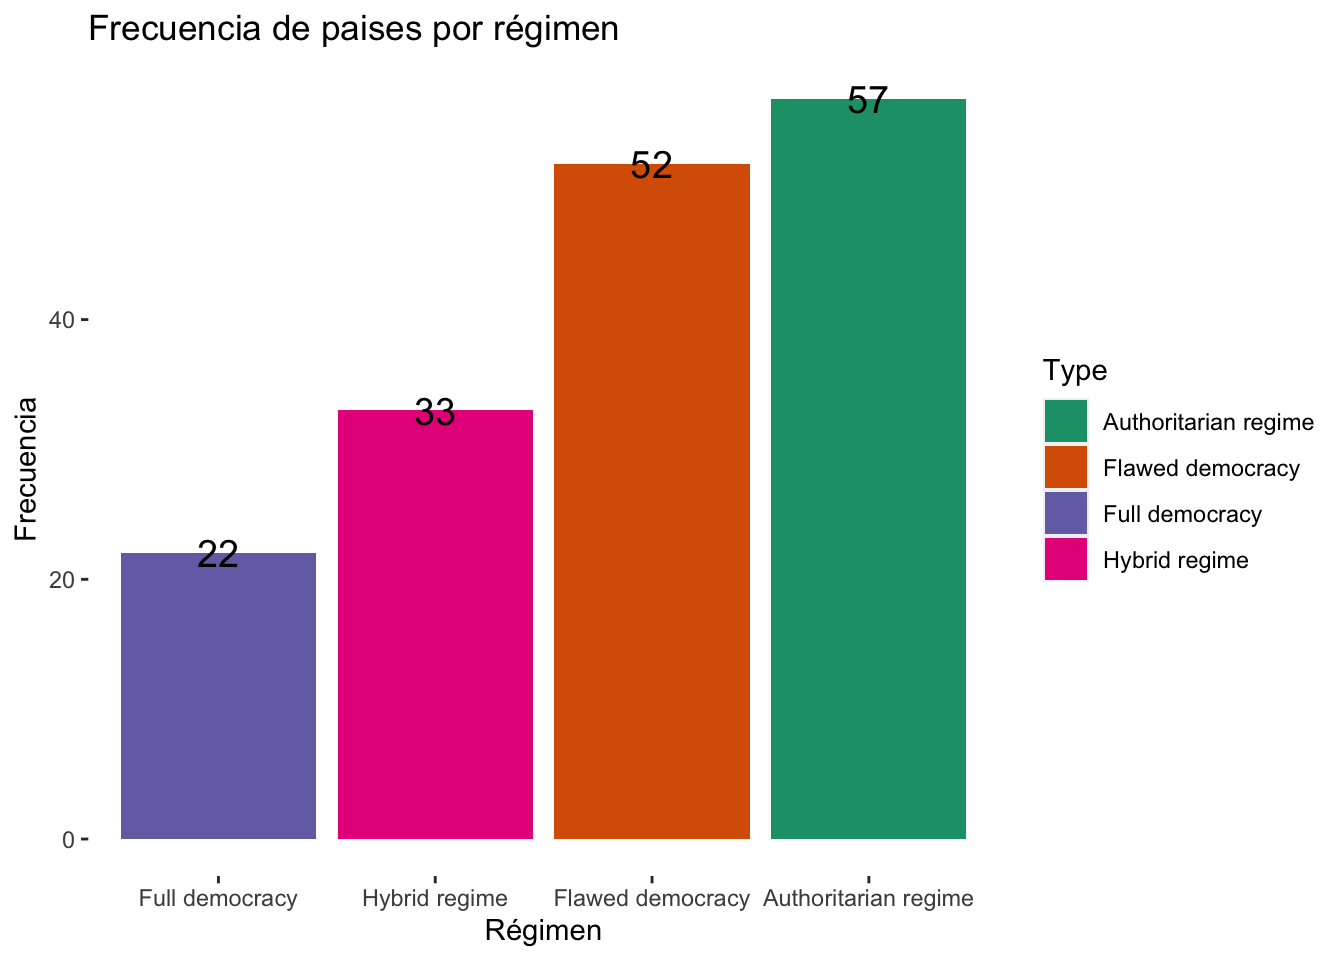
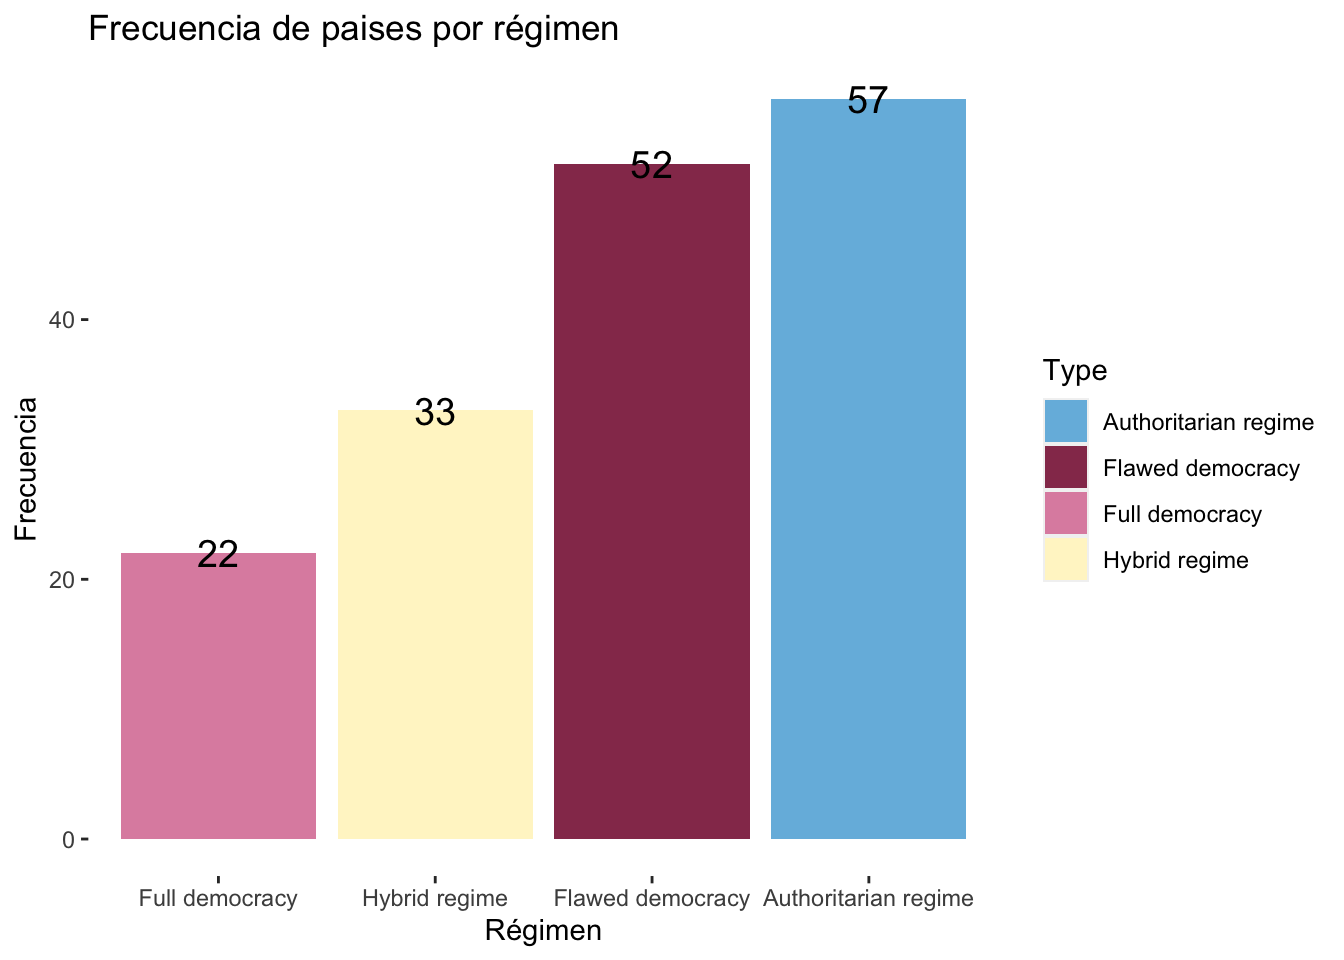
Updaste 9 mayo 2023

diff --git a/pd2.html b/pd2.html
@@ -13,11 +13,7 @@
 
 <title>Práctica dirigida 2</title>
 
-<<<<<<< HEAD
-<script src="site_libs/header-attrs-2.14/header-attrs.js"></script>
-=======
 <script src="site_libs/header-attrs-2.21/header-attrs.js"></script>
->>>>>>> 8307fbb482dc0701362b27cfc33d2c724aafd5b2
 <script src="site_libs/jquery-3.6.0/jquery-3.6.0.min.js"></script>
 <meta name="viewport" content="width=device-width, initial-scale=1" />
 <link href="site_libs/bootstrap-3.3.5/css/cosmo.min.css" rel="stylesheet" />
@@ -150,11 +146,15 @@ $(document).ready(function () {
     href = "index.html";
   var menuAnchor = $('a[href="' + href + '"]');
 
-  // mark it active
-  menuAnchor.tab('show');
-
-  // if it's got a parent navbar menu mark it active as well
-  menuAnchor.closest('li.dropdown').addClass('active');
+  // mark the anchor link active (and if it's in a dropdown, also mark that active)
+  var dropdown = menuAnchor.closest('li.dropdown');
+  if (window.bootstrap) { // Bootstrap 4+
+    menuAnchor.addClass('active');
+    dropdown.find('> .dropdown-toggle').addClass('active');
+  } else { // Bootstrap 3
+    menuAnchor.parent().addClass('active');
+    dropdown.addClass('active');
+  }
 
   // Navbar adjustments
   var navHeight = $(".navbar").first().height() + 15;
@@ -183,8 +183,8 @@ $(document).ready(function () {
   border-radius: 4px;
 }
 
-.tabset-dropdown > .nav-tabs > li.active:before {
-  content: "";
+.tabset-dropdown > .nav-tabs > li.active:before, .tabset-dropdown > .nav-tabs.nav-tabs-open:before {
+  content: "\e259";
   font-family: 'Glyphicons Halflings';
   display: inline-block;
   padding: 10px;
@@ -192,16 +192,9 @@ $(document).ready(function () {
 }
 
 .tabset-dropdown > .nav-tabs.nav-tabs-open > li.active:before {
-  content: "&#xe258;";
-  border: none;
-}
-
-.tabset-dropdown > .nav-tabs.nav-tabs-open:before {
-  content: "";
+  content: "\e258";
   font-family: 'Glyphicons Halflings';
-  display: inline-block;
-  padding: 10px;
-  border-right: 1px solid #ddd;
+  border: none;
 }
 
 .tabset-dropdown > .nav-tabs > li.active {
@@ -518,31 +511,8 @@ str(data)</code></pre>
 <pre class="r"><code>colnames(data) = c(&quot;Country&quot;,&quot;Year&quot;,&quot;Rank&quot;,&quot;Score_Frag_States&quot;,&quot;Security&quot;,&quot;Elites&quot;,&quot;G_Grivance&quot;,&quot;Economy&quot;,&quot;Inequality&quot;,&quot;B_Drain&quot;,&quot;State_Legit&quot;,&quot;P_Services&quot;,&quot;Hum_Rights&quot;,&quot;Demo_Press&quot;,&quot;Refugees&quot;,&quot;Interven&quot;,&quot;Democracy_Score&quot;,&quot;Type&quot;)</code></pre>
 <div id="análisis-de-una-variable-ordinal" class="section level2">
 <h2><strong>Análisis de una variable ordinal</strong></h2>
-<<<<<<< HEAD
-<pre class="r"><code>library(dplyr)</code></pre>
-<pre><code>## 
-## Attaching package: &#39;dplyr&#39;</code></pre>
-<pre><code>## The following objects are masked from &#39;package:stats&#39;:
-## 
-##     filter, lag</code></pre>
-<pre><code>## The following objects are masked from &#39;package:base&#39;:
-## 
-##     intersect, setdiff, setequal, union</code></pre>
-<pre class="r"><code>library(tidyverse)</code></pre>
-<pre><code>## ── Attaching packages
-## ───────────────────────────────────────
-## tidyverse 1.3.2 ──</code></pre>
-<pre><code>## ✔ ggplot2 3.4.0     ✔ purrr   0.3.4
-## ✔ tibble  3.1.8     ✔ stringr 1.4.0
-## ✔ tidyr   1.2.1     ✔ forcats 0.5.1
-## ✔ readr   2.1.2     
-## ── Conflicts ────────────────────────────────────────── tidyverse_conflicts() ──
-## ✖ dplyr::filter() masks stats::filter()
-## ✖ dplyr::lag()    masks stats::lag()</code></pre>
-=======
 <pre class="r"><code>library(dplyr)
 library(tidyverse)</code></pre>
->>>>>>> b9493e0fc355788796e90cc1e7a6090081fa39ed
 <pre class="r"><code>#comprobamos el tipo de dato que analizaremos
 class(data$Type)</code></pre>
 <pre><code>## [1] &quot;character&quot;</code></pre>
@@ -771,6 +741,8 @@ graf1</code></pre>
 ## 4       Full democracy   22</code></pre>
 <pre class="r"><code>library(ggplot2)
 library(taylor) #opcional (una ventaja de que R sea software libre)
+
+
 ggplot(graf1, aes(x=Type, y=Freq, fill=Type)) + 
 geom_bar(stat = &quot;identity&quot;) </code></pre>
 <p><img src="pd2_files/figure-html/unnamed-chunk-20-1.png" width="672" /></p>
@@ -780,9 +752,9 @@ geom_bar(stat = &quot;identity&quot;) </code></pre>
   xlab(&quot;Régimen&quot;) + ylab(&quot;Frecuencia&quot;)+
   geom_text(aes(label=Freq), vjust=0.5, color=&quot;black&quot;, size=5)+
   theme(panel.background=element_rect(fill = &quot;white&quot;, colour = &quot;white&quot;)) +
-  scale_fill_brewer(palette=&quot;Dark2&quot;)</code></pre>
+  #scale_fill_brewer(palette=&quot;Dark2&quot;)
+  scale_fill_taylor_d(album=&quot;Lover&quot;) #&quot;Fearless (Taylor&#39;s Version)&quot;</code></pre>
 <p><img src="pd2_files/figure-html/unnamed-chunk-21-1.png" width="672" /></p>
-<pre class="r"><code>  #scale_fill_taylor_d(album=&quot;Lover&quot;) #&quot;Fearless (Taylor&#39;s Version)&quot;</code></pre>
 </div>
 <div id="análisis-de-variables-numéricas" class="section level2">
 <h2>2. Análisis de variables numéricas</h2>

diff --git a/Pd3.html b/Pd3.html
@@ -13,11 +13,7 @@
 
 <title>Práctica dirigida 3</title>
 
-<<<<<<< HEAD
-<script src="site_libs/header-attrs-2.14/header-attrs.js"></script>
-=======
 <script src="site_libs/header-attrs-2.21/header-attrs.js"></script>
->>>>>>> 8307fbb482dc0701362b27cfc33d2c724aafd5b2
 <script src="site_libs/jquery-3.6.0/jquery-3.6.0.min.js"></script>
 <meta name="viewport" content="width=device-width, initial-scale=1" />
 <link href="site_libs/bootstrap-3.3.5/css/cosmo.min.css" rel="stylesheet" />
@@ -150,11 +146,15 @@ $(document).ready(function () {
     href = "index.html";
   var menuAnchor = $('a[href="' + href + '"]');
 
-  // mark it active
-  menuAnchor.tab('show');
-
-  // if it's got a parent navbar menu mark it active as well
-  menuAnchor.closest('li.dropdown').addClass('active');
+  // mark the anchor link active (and if it's in a dropdown, also mark that active)
+  var dropdown = menuAnchor.closest('li.dropdown');
+  if (window.bootstrap) { // Bootstrap 4+
+    menuAnchor.addClass('active');
+    dropdown.find('> .dropdown-toggle').addClass('active');
+  } else { // Bootstrap 3
+    menuAnchor.parent().addClass('active');
+    dropdown.addClass('active');
+  }
 
   // Navbar adjustments
   var navHeight = $(".navbar").first().height() + 15;
@@ -183,8 +183,8 @@ $(document).ready(function () {
   border-radius: 4px;
 }
 
-.tabset-dropdown > .nav-tabs > li.active:before {
-  content: "";
+.tabset-dropdown > .nav-tabs > li.active:before, .tabset-dropdown > .nav-tabs.nav-tabs-open:before {
+  content: "\e259";
   font-family: 'Glyphicons Halflings';
   display: inline-block;
   padding: 10px;
@@ -192,16 +192,9 @@ $(document).ready(function () {
 }
 
 .tabset-dropdown > .nav-tabs.nav-tabs-open > li.active:before {
-  content: "&#xe258;";
-  border: none;
-}
-
-.tabset-dropdown > .nav-tabs.nav-tabs-open:before {
-  content: "";
+  content: "\e258";
   font-family: 'Glyphicons Halflings';
-  display: inline-block;
-  padding: 10px;
-  border-right: 1px solid #ddd;
+  border: none;
 }
 
 .tabset-dropdown > .nav-tabs > li.active {

diff --git a/pd5.html b/pd5.html
@@ -13,11 +13,7 @@
 
 <title>Práctica dirigida 5</title>
 
-<<<<<<< HEAD
-<script src="site_libs/header-attrs-2.14/header-attrs.js"></script>
-=======
 <script src="site_libs/header-attrs-2.21/header-attrs.js"></script>
->>>>>>> 9a956ab703412b9cfc7cff4595e22405f5712d51
 <script src="site_libs/jquery-3.6.0/jquery-3.6.0.min.js"></script>
 <meta name="viewport" content="width=device-width, initial-scale=1" />
 <link href="site_libs/bootstrap-3.3.5/css/cosmo.min.css" rel="stylesheet" />
@@ -150,11 +146,15 @@ $(document).ready(function () {
     href = "index.html";
   var menuAnchor = $('a[href="' + href + '"]');
 
-  // mark it active
-  menuAnchor.tab('show');
-
-  // if it's got a parent navbar menu mark it active as well
-  menuAnchor.closest('li.dropdown').addClass('active');
+  // mark the anchor link active (and if it's in a dropdown, also mark that active)
+  var dropdown = menuAnchor.closest('li.dropdown');
+  if (window.bootstrap) { // Bootstrap 4+
+    menuAnchor.addClass('active');
+    dropdown.find('> .dropdown-toggle').addClass('active');
+  } else { // Bootstrap 3
+    menuAnchor.parent().addClass('active');
+    dropdown.addClass('active');
+  }
 
   // Navbar adjustments
   var navHeight = $(".navbar").first().height() + 15;
@@ -183,8 +183,8 @@ $(document).ready(function () {
   border-radius: 4px;
 }
 
-.tabset-dropdown > .nav-tabs > li.active:before {
-  content: "";
+.tabset-dropdown > .nav-tabs > li.active:before, .tabset-dropdown > .nav-tabs.nav-tabs-open:before {
+  content: "\e259";
   font-family: 'Glyphicons Halflings';
   display: inline-block;
   padding: 10px;
@@ -192,16 +192,9 @@ $(document).ready(function () {
 }
 
 .tabset-dropdown > .nav-tabs.nav-tabs-open > li.active:before {
-  content: "&#xe258;";
-  border: none;
-}
-
-.tabset-dropdown > .nav-tabs.nav-tabs-open:before {
-  content: "";
+  content: "\e258";
   font-family: 'Glyphicons Halflings';
-  display: inline-block;
-  padding: 10px;
-  border-right: 1px solid #ddd;
+  border: none;
 }
 
 .tabset-dropdown > .nav-tabs > li.active {
